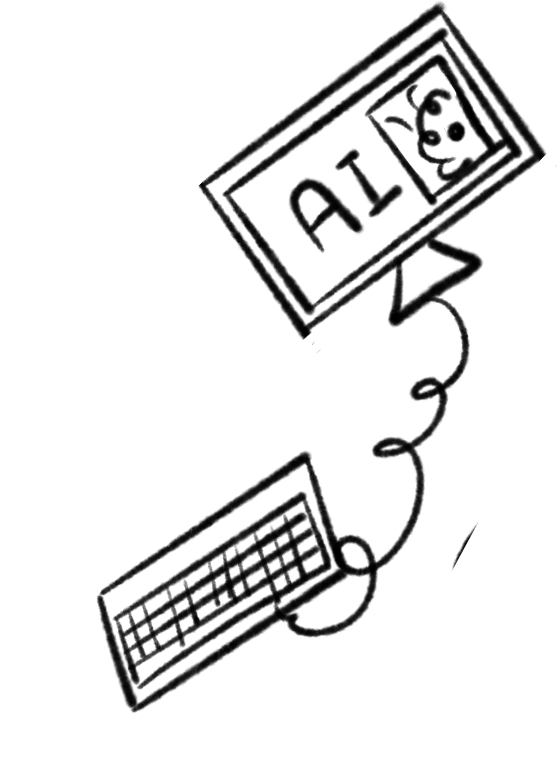
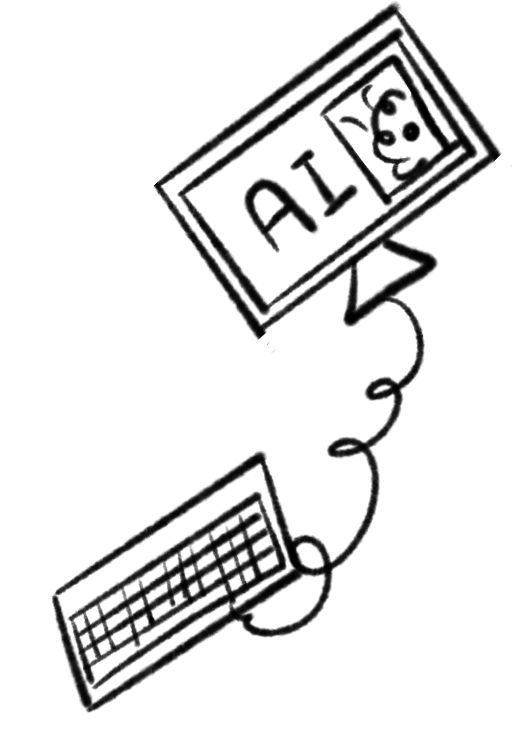
Add files via upload

Changed region(s): [[0.2807, 0.0, 0.9981, 0.498], [0.0936, 0.498, 0.8109, 0.9648], [0.8109, 0.6847, 0.8421, 0.747]]

diff --git a/index.html b/index.html
@@ -680,7 +680,7 @@
 <!-- HERO -->
 <div class="hero">
   <div class="hero-illust-desktop" style="position:relative;width:500px;height:560px;margin:0 auto;">
-    <div class="float-item" style="left:0px;top:160px;width:170px;height:230px;animation-delay:0.2s;animation-duration:4.4s;"><img src="images/hero-monitor.png" alt=""/></div>
+    <div class="float-item" style="left:0px;top:150px;width:170px;height:245px;animation-delay:0.2s;animation-duration:4.4s;"><img src="images/hero-monitor.png" alt=""/></div>
     <div class="float-item" style="left:170px;top:60px;width:150px;height:126px;animation-delay:0.8s;animation-duration:3.6s;"><img src="images/hero-tablet.png" alt=""/></div>
     <div class="float-item" style="left:310px;top:90px;width:90px;height:108px;animation-delay:1.4s;animation-duration:4s;"><img src="images/hero-pencup.png" alt=""/></div>
     <div class="float-item" style="left:300px;top:160px;width:200px;height:149px;animation-delay:0.5s;animation-duration:4.8s;"><img src="images/hero-laptop.png" alt=""/></div>
@@ -690,7 +690,7 @@
   <div class="hero-illust-mobile" style="display:none;flex-direction:column;align-items:center;">
     <div style="width:170px;height:290px;margin-bottom:12px;"><img src="images/hero-person.png" alt="Saekyoung" style="width:100%;height:100%;object-fit:contain;display:block;"/></div>
     <div style="display:flex;flex-wrap:wrap;justify-content:center;gap:14px;max-width:280px;">
-      <div class="float-item" style="position:relative;left:0;top:0;width:80px;height:108px;animation-delay:0.2s;animation-duration:4.4s;"><img src="images/hero-monitor.png" alt=""/></div>
+      <div class="float-item" style="position:relative;left:0;top:0;width:80px;height:115px;animation-delay:0.2s;animation-duration:4.4s;"><img src="images/hero-monitor.png" alt=""/></div>
       <div class="float-item" style="position:relative;left:0;top:0;width:74px;height:62px;animation-delay:0.8s;animation-duration:3.6s;"><img src="images/hero-tablet.png" alt=""/></div>
       <div class="float-item" style="position:relative;left:0;top:0;width:50px;height:60px;animation-delay:1.4s;animation-duration:4s;"><img src="images/hero-pencup.png" alt=""/></div>
       <div class="float-item" style="position:relative;left:0;top:0;width:94px;height:70px;animation-delay:0.5s;animation-duration:4.8s;"><img src="images/hero-laptop.png" alt=""/></div>
